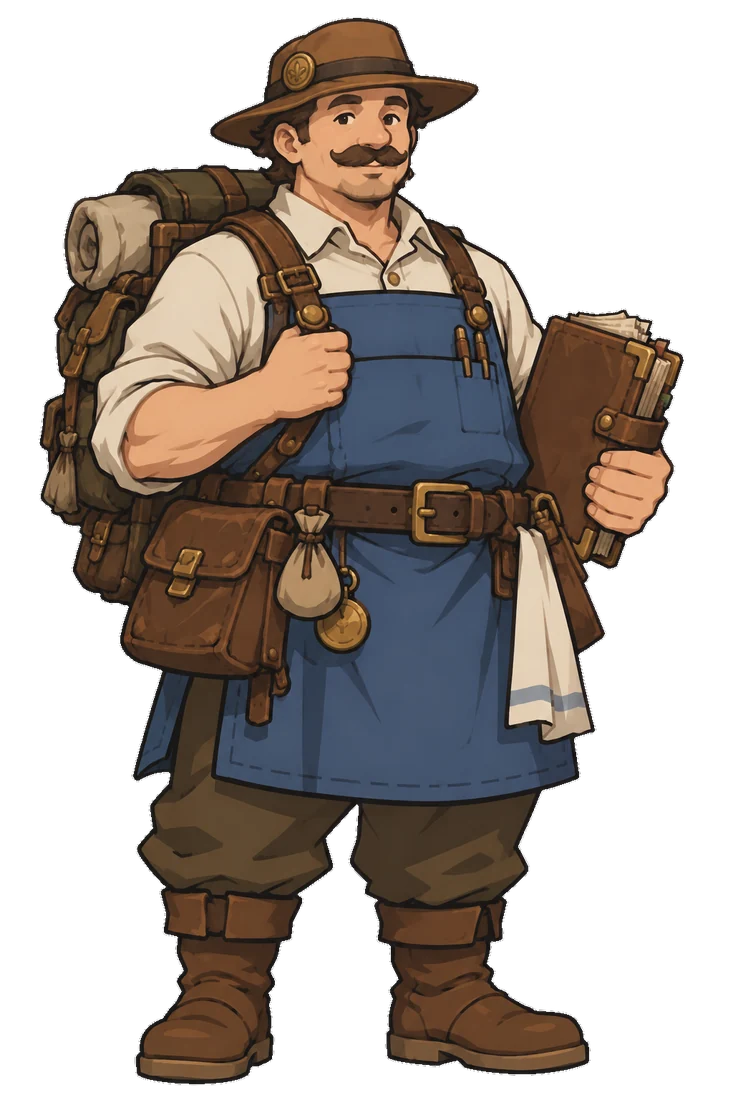
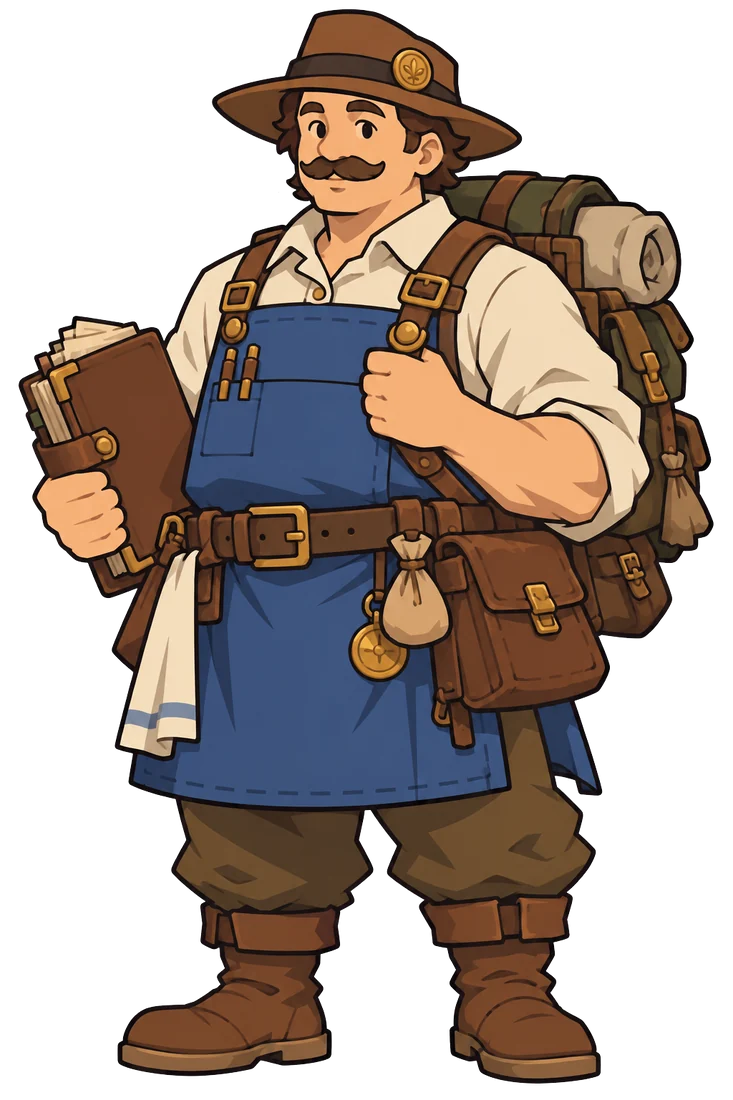
商人立繪換成大爺重畫的版本（大爺 10-03）
Claude-Session: https://claude.ai/code/session_01V3XhJSRuqZvKMCXecCUFBZ

diff --git a/docs/現況.md b/docs/現況.md
@@ -141,7 +141,7 @@
   - 大爺、卡姆的 8 張臉沒有標名字，檔名是香香看圖取的（不爽、微笑、大笑、咬牙、難過、驚訝、奸笑、害羞），**暫定**
   - **臉已對好（10-02）**：每張臉都跟無臉底圖一樣大（大爺 1100×1000、卡姆 880×1100），兩張 `<img>` 疊在同一個位置就對上，不用另外算座標。對法：照有臉的原圖量瞳孔位置，每張臉照瞳孔移過去，大小、角度用同一組（大爺縮 0.80 轉 −9°、卡姆縮 0.48 轉 −6°）；閉眼的用眼線位置。**大爺的嘴另外往下移 27px**（表情表上嘴離眼睛比立繪近，不移的話牙齒會壓在鬍子上）
   - 小瑕疵：卡姆的眉毛畫在瀏海上面（原圖眉毛被瀏海蓋住）；大爺害羞的腮紅疊在鏡片上
-  - 素材本身的問題：哥布林、商人畫風跟其他人不同（哥布林平塗美式卡通、商人偏寫實不是 Q 版）；香香穿綠斗篷沒有鏈甲衫（要改圖還是改設定待定）
+  - 素材本身的問題：哥布林畫風跟其他人不同（平塗美式卡通）；商人 10-03 大爺重畫成粗線平塗，跟大爺立繪同一路；香香穿綠斗篷沒有鏈甲衫（要改圖還是改設定待定）
   - 四小隻的頭：大爺 10-03 自己切成一顆一張（210×210、透明背景），四隻都換好了。玲玲、嬌嬌、香香各 8 張；默默 7 張（被抓包和裝無辜重複，只留一張，檔名「被抓包」）。嬌嬌疑惑的藍眼已改成橘眼
 
 ## 七、已知問題（原本就有，沒修，大爺還沒說要不要處理）
